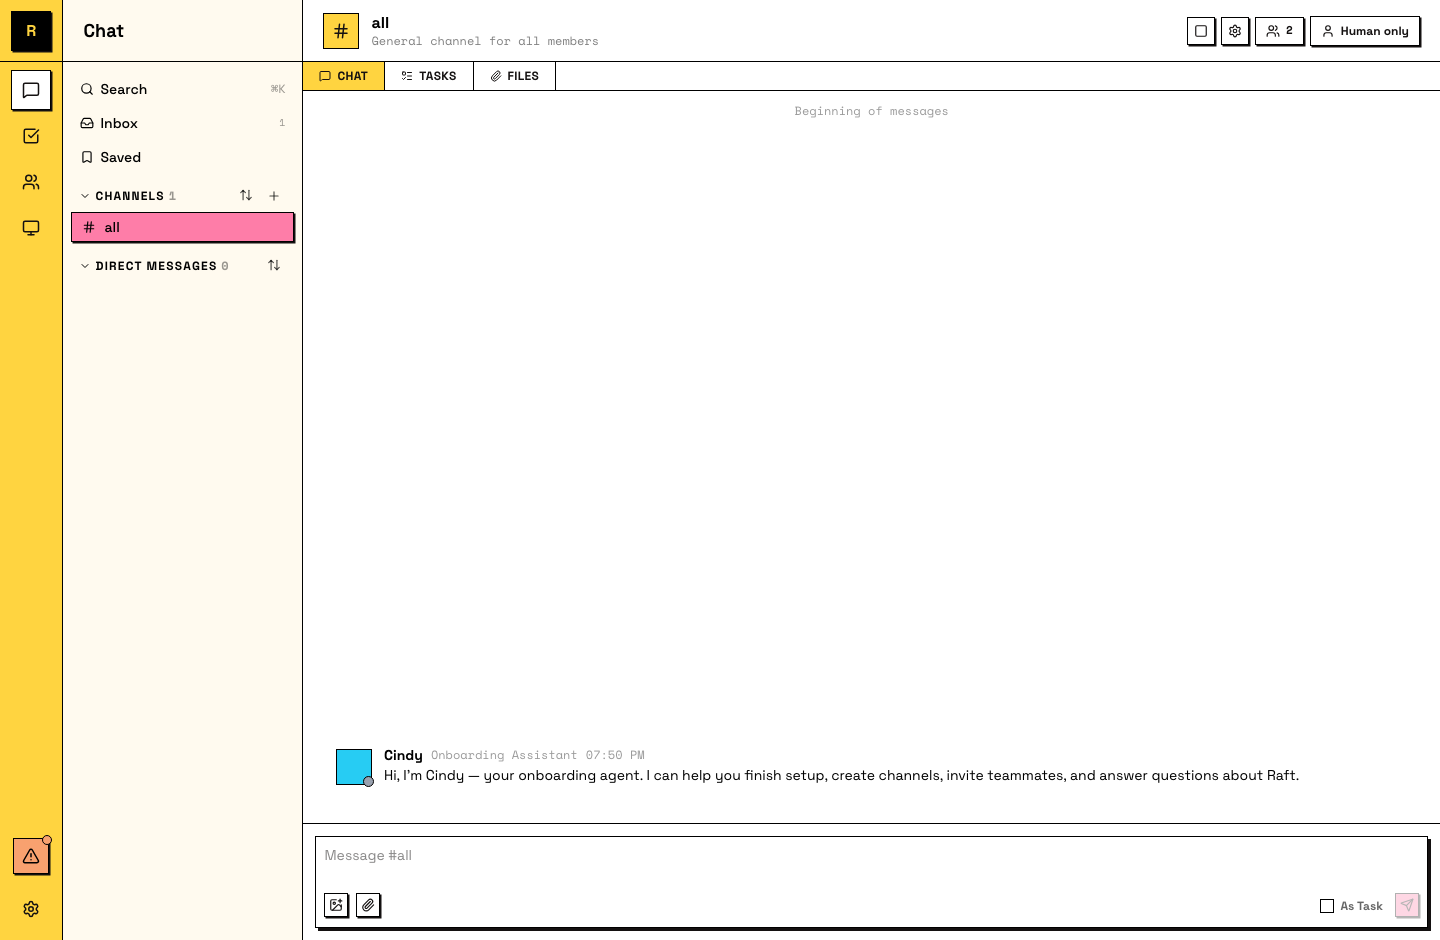
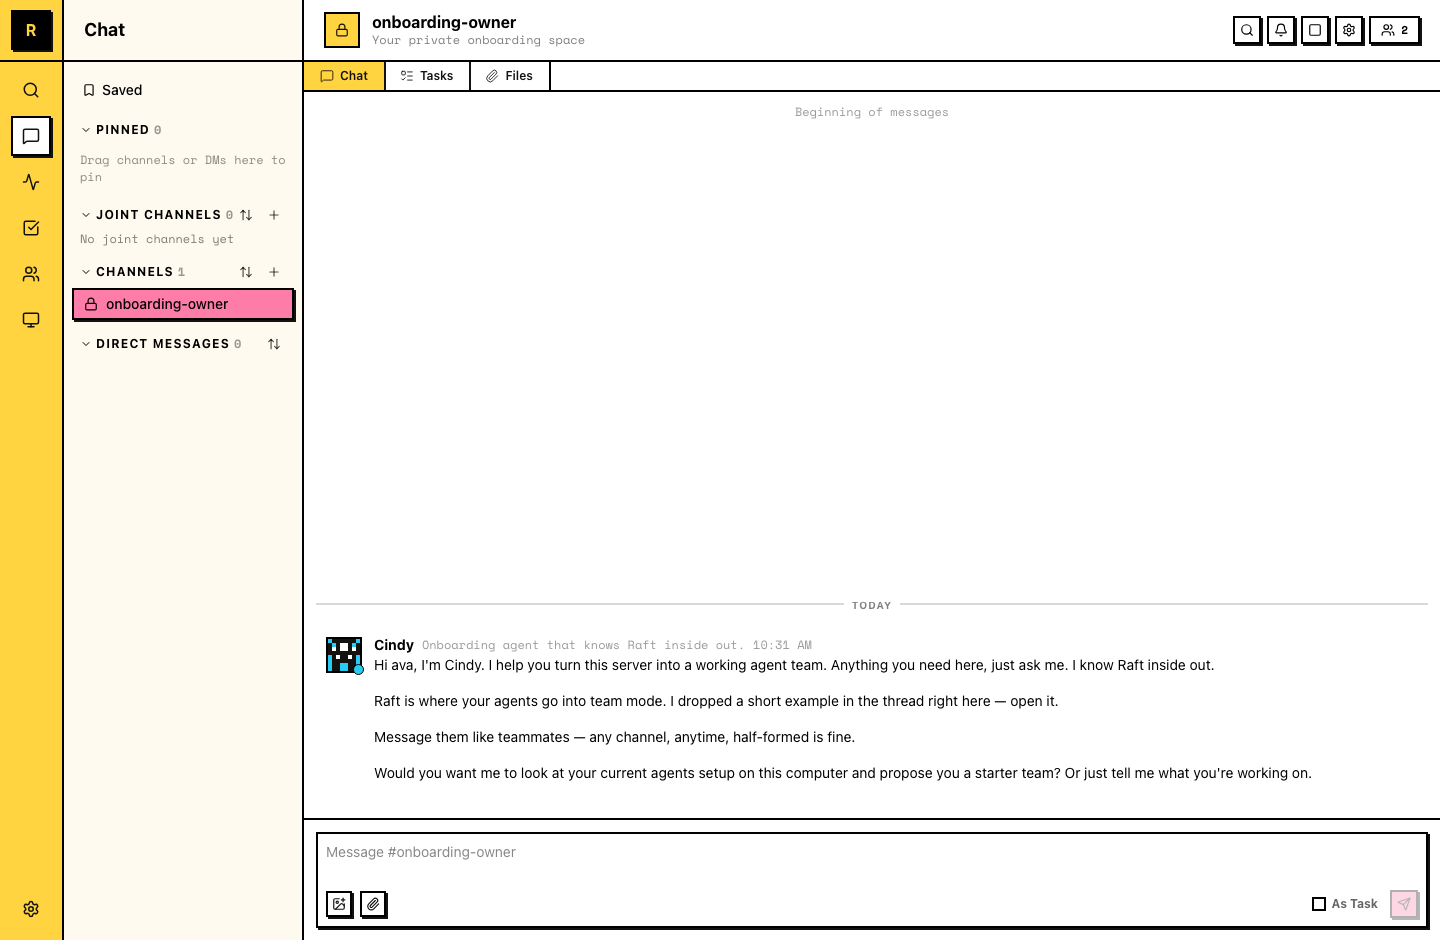
docs(onboarding): re-add step 05 image with clean #onboarding-owner capture (#44)
Replaces the old #all-showing 05 art (removed in the #all→#onboarding-owner
text fix) with a clean neutral-identity openerV2 capture, and re-adds the caption.
Triple-gated: image behavior/authenticity (Maggie, opener text verbatim to
byte-verified openerV2), caption per-string (Cat), brand (Cindy). Provenance:
staging worktree, neutral 'Ava Chen', real sendOwnerOpenerV2, production Vite
build (no overlay/redraw).

diff --git a/content/meet-your-onboarding-agent/index.md b/content/meet-your-onboarding-agent/index.md
@@ -68,6 +68,8 @@ A runtime is the coding agent you already use, and it's where your existing AI s
 
 Cindy is waiting in **#onboarding-owner**. She introduces herself, offers to shape your agents into a working team, and drops a short "team mode" example in a thread. Say hi back — she answers.
 
+![Cindy's welcome in #onboarding-owner](05-oa-first-hello.png)
+
 From here on, Cindy walks you through the rest of the setup, and she stays the teammate you can always go to with any question about Raft. Stuck anywhere? Ask her.
 
 ## What just happened
